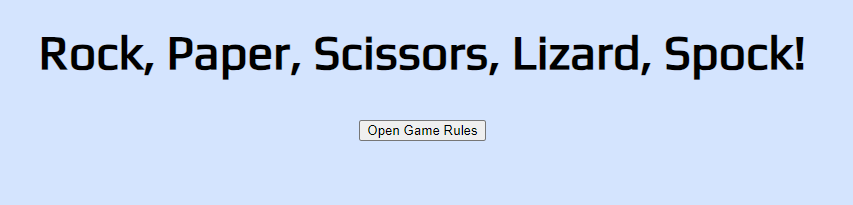
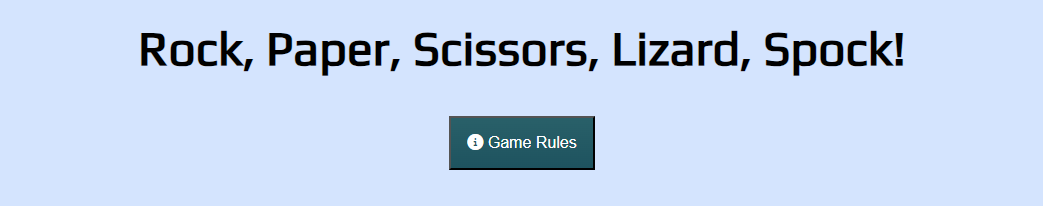
Upload new screenshots and complete README.md. Modify style and font-size in style.css

Changed region(s): [[0.0305, 0.1463, 0.9449, 0.3805], [0.3962, 0.5561, 0.5791, 0.8488]]

diff --git a/index.html b/index.html
@@ -31,7 +31,7 @@
                         <li>Lizard poisons Spock</li>
                         <li>Spock smashes Scissors</li>
                         <li>Scissors decapitates Lizard</li>
-                        <li>Lizard eats Paper></li>
+                        <li>Lizard eats Paper</li>
                         <li>Paper disproves Spock</li>
                         <li>Spock vaporizes Rock</li>
                         <li>(and as it always has) Rock crushes Scissors</li>
@@ -43,7 +43,7 @@
     
     <section class="game-area">
         <div class="choice-area">
-            <h2>Choose your hand: </h2>
+            <h2 class="size">Choose your hand: </h2>
             <button aria-label="rock" data-type="rock" class="buttons">
                 <img src="assets/images/rock-icon.webp" alt="picture of a rock icon in the rock, paper, scissors, lizard, spock game">
             </button>
@@ -70,13 +70,14 @@
         <!--Game example code from code rock paper scissors game-->
         <div id="messages"></div>
         <div class="chosen-area1">
-            <h3 class="scores">Your score: <span id="player1">0</span></h3>
+            <h3 class="scores, size">Your score: <span id="player1">0</span></h3>
             <img id="player-image" src="assets/images/game.webp" alt="Rock Paper Scissor Lizard Spock image">
         </div>
         <div class="chosen-area2">
-            <h3 class="scores">Computer score: <span id="computer1">0</span></h3>
+            <h3 class="scores, size">Computer score: <span id="computer1">0</span></h3>
             <img id="computer-image" src="assets/images/game.webp" alt="Rock Paper Scissor Lizard Spock image">
         </div>
+        
     </section> 
     <script src="assets/js/script.js"></script>
 </body>

diff --git a/assets/js/script.js b/assets/js/script.js
@@ -8,7 +8,6 @@ const computerOne = document.getElementById('computer1');
 const playerImage = document.getElementById('player-image');
 const computerImage = document.getElementById('computer-image');
 const messages = document.getElementById('messages');
-const restartBtn  = document.getElementById('restart');
 const choices = ['rock', 'paper', 'scissors', 'lizard', 'spock'];
 const buttons = document.getElementsByClassName('buttons');
 
@@ -165,30 +164,16 @@ var span = document.getElementsByClassName("close")[0];
 // When the user clicks on the button, open the modal
 btn.onclick = function() {
   modal.style.display = "block";
-}
+};
 
 // When the user clicks on <span> (x), close the modal
 span.onclick = function() {
   modal.style.display = "none";
-}
+};
 
 // When the user clicks anywhere outside of the modal, close it
 window.onclick = function(event) {
   if (event.target == modal) {
     modal.style.display = "none";
   }
-}
-
-
-
-
-
-
-// what I need to do is disable everything so you cant continue the game 
-// give message on screen as to who won
-// make the restart button visible
-
-// known issues
-// I wasn't able to get the restart button to appear
-// the images for the computer choice do not match the actual computer choice
-// I still need to do a lot of CSS to make some borrowed elements more unique
+};

diff --git a/assets/css/style.css b/assets/css/style.css
@@ -13,11 +13,13 @@ body {
     font-size: x-large;
 }
 .header {
-    font-size: xxx-large;
+    font-size: 3vw;
 }
 #restart {
   visibility: hidden;
 }
+
+/* code from Simple Steps Code */
 .glass {
   /* background styles */
     position: relative;
@@ -28,7 +30,7 @@ body {
     /* text styles */
     text-decoration: none;
     color: #fff;
-    font-size: 1rem;
+    font-size: 2vw;
     font-family: sans-serif;
     font-weight: 100;
 }
@@ -44,7 +46,7 @@ body {
     width: auto;
 }
 .choice-area h3 {
-    font-size: auto;
+    font-size: 2vw;
 }
 .buttons {
     border-radius: 50%;
@@ -87,6 +89,10 @@ body {
 }
 .button-label {
     display: inline-block
+}
+
+.size {
+    font-size: 2vw;
 }
 
 /* code from W3S but this is modified to fit with my page */

diff --git a/README.md b/README.md
@@ -1,39 +1,47 @@
 # Rock, Paper, Scissors, Lizard, Spock!
 
-It is the classing "Rock, Paper, Scissors" game but with the Big Bang Theory additions, "Lizard and Spock". As the player, you would be able to choose your option and the computer would randomly choose its own hand. The scores are also automatically updated in order to keep track of who is ahead.
+It is the classic "Rock, Paper, Scissors" game but with the Big Bang Theory additions, "Lizard and Spock". As the player, you would be able to choose your option and the computer would randomly choose its own hand. The scores are also automatically updated in order to keep track of who is ahead.
 
 # Features
 
 - Header
     - Covers the top of the page with the title: "Rock, Paper, Scissors, Lizard, Spock!" in a simple font which is also clearly visible in terms of contrast.
     - The title should be self-explanatory but I have included the game rules in the header in the form of a modal addition so as to avoid taking space on the page.
+    - The button colour is taken from the colour pallete of the hand options.
 
         ![header](assets/images/header.PNG)
 
 - The Game Options
     - Include a clear instruction for players to choose their hand from the interactive buttons.
-    - The buttons have been layered with an image of each option along with it writen-form right next to each button.
+    - The buttons have been layered with an image of each option along with it written-form right next to each button.
 
-        ![game_Options](assets/images/game-options.PNG)
+        ![game_options](assets/images/game-options.png)
 
 - The Game Results
-    - When the user clicks an option, the image relating to their choice is displayed on their side of the game board
+    - When the user clicks an option, the image relating to their choice is displayed on their side of the game board*
     - The Javascript code chooses a random otpion for the Computer player, displays the image relating to the computer's choice, and then determines who the winner is.
-    - The winner is announced to the user under the option's button, and the score is updated for either the user or the computer, depending on who won.
+    - The overall winner, after 10 games is announced to the user under the options buttons, and the score is updated for either the user or the computer, depending on who won.
     - The results and score are clear to the user, which allows for good keeping track of the who is ahead.
 
         ![game_results](assets/images/game-results.PNG)
 
 - The Footer
-    - I decided not to include a footer as I provided the rules in the header and they are accessible at any time by click on the (i) button to open the rules box.
+    - I decided not to include a footer as I provided the rules in the header and they are accessible at any time by click on the "(i) Game rules" button to open the rules box.
 
      ![rules](assets/images/rules.PNG)
 
+- The Restart button
+    - this button resets the game once the winner of 10 games has been declared and begins everything anew.
+    - The button only appears after the winner has been declared and its style is based on the game rules button with colour corresponding to the hand choices images.
+
+    ![restart](assets/images/restart.png)
+
+
 # Testing
 
-- I tested playing this game in the following browser: Chrome, Edge (TBC)
-- The game results are corret but I still need to fix the images displayed for the computer choice.
-- I confirmed that all writing is clear and well in contrast with the background to make it readable.
+- I tested playing this game in the following browser: Chrome and Edge
+- The game results are correct but I am facing an issue with the images displayed for the computer choice.
+- I confirmed that all writing is clear and well in contrast with the background to make it readable and font-size for all wording throughout the page is scalable based on the window size.
 - The colour pallet and fonts chosen are carefully picked to be playful but also easy on the eyes with more pastel tones. The colour pallet for the entire page is also directly derived from the original image that you see before the player and computer choice fields are populated.
 
     ![colour-pallet](assets/images/colour-pallet.PNG)
@@ -41,34 +49,48 @@ It is the classing "Rock, Paper, Scissors" game but with the Big Bang Theory add
 
 ## Lighthouse test pending
 
-## Bugs
-- Unsolved yet
-    - struggled to get the correct image to appear for the computer's choice
+# Bugs
+- Unsolved yet*
+    - Struggled to get the correct image to appear for the computer's choice. I eventually managed it but it broke the evaluateHand function instead.
+    There is more explanatory comments and dockstrings within my Javascript code about this.
 
 # Validator Testing
 - HTML
-    - No error were returned when passing through the official W3C validator
-    ![html-w3c-validator](assets/images/html-w3c-validator.png)
+    - No errors were returned when passing through the official W3C validator
+    - ![html-w3c-validator](assets/images/html-w3c-validator.png)
 - CSS
-    - Still pending
+    - No errors were found when passing through the official (Jigsaw) validator
+    - ![css-w3c-validator](assets/images/css-w3c-validator.png)
 -Javascript
-    - Still pending
+    - No errors were found when passing through JSHint.com, but there were warnings
+    - ![jshint.com](assets/images/jshint.com1.png) 
+    - ![jshint.com](assets/images/jshint.com2.png) 
+    - ![jshint.com](assets/images/jshint.com3.png)
+
 
 
 ## Deployment
-- The site will be deployed to GitHub pages but that is still pending.
+- The site was deployed to GitHub pages. The steps to deploy are as follows:
+   - In the GitHub repository, navigate to the Settings tab
+   - From the left-hand side menu, find and click on the Pages tab
+   - Choose a branch you want to deploy from (e.g main)
+   - Click save and wait a few minutes for your page to be deployed.
+   - Refresh the page to view the link for your page.
+- 404.html
+    - created a 404.html from the GitHub repository > Add file
 
-## Credits
+# Credits
 ---
-### Content
-- Code was taken and inspired from the [Love Running](https://github.com/otherworldly94b/love-running) project for a lot of this current project.
-- The biggest similarities should be in social media links, the "times" section and the Gallery page.
-- The signup page should also have similarities but the code for it was written by me in the Love Running project as well.
-- Some CSS code was also inspired from the [Love Running](https://github.com/otherworldly94b/love-running) project.
-- Great deal of help from my mentor in checking and correcting my code.
-- W3S code was also used throughout the project
+## Content
+- Some code was taken and inspired from the [Love Maths](https://github.com/otherworldly94b/love-maths) project.
+- Some CSS code was taken from the [Simple Steps Code](https://simplestepscode.com/css-glass-button-tutorial/) project.
+- Great deal of help from my mentor, Spencer Barriball, in checking and correcting my code.
+- W3S code was also used throughout the project.
 
-### Media
+## Media
 - All images were taken from the web and links to their origin  will be provided below.
-    - [Logo](https://bigbangtheory.fandom.com/wiki/Rock,_Paper,_Scissors,_Lizard,_Spock)
-    - rock, paper, scissors, lizard, spock icons (https://cse.google.com/cse?cx=4796b5020fbeaf2e6&q=rock%20paper%20scissors%20lizard%20spock&oq=rock%20paper%20scissors%20lizard%20spock&gs_l=partner-web.3...13251.22775.0.23508.0.0.0.0.0.0.0.0..0.0.csems%2Cnrl%3D10...0....1.34.partner-web..0.0.0.) from the Free ICONS Library (https://icon-library.com/icon/rock-paper-scissors-icon-29.html)
+    - [Colourful image](https://bigbangtheory.fandom.com/wiki/Rock,_Paper,_Scissors,_Lizard,_Spock)
+    - [rock, paper, scissors, lizard, spock icons](https://cse.google.com/cse?cx=4796b5020fbeaf2e6&q=rock%20paper%20scissors%20lizard%20spock&oq=rock%20paper%20scissors%20lizard%20spock&gs_l=partner-web.3...13251.22775.0.23508.0.0.0.0.0.0.0.0..0.0.csems%2Cnrl%3D10...0....1.34.partner-web..0.0.0.) 
+    from the [Free ICONS Library](https://icon-library.com/icon/rock-paper-scissors-icon-29.html)
+    - [Coolors](https://coolors.co/?home) for my colour pallet.
+    - [Am I responsive](https://ui.dev/amiresponsive) for the responsiveness test and screenshot
